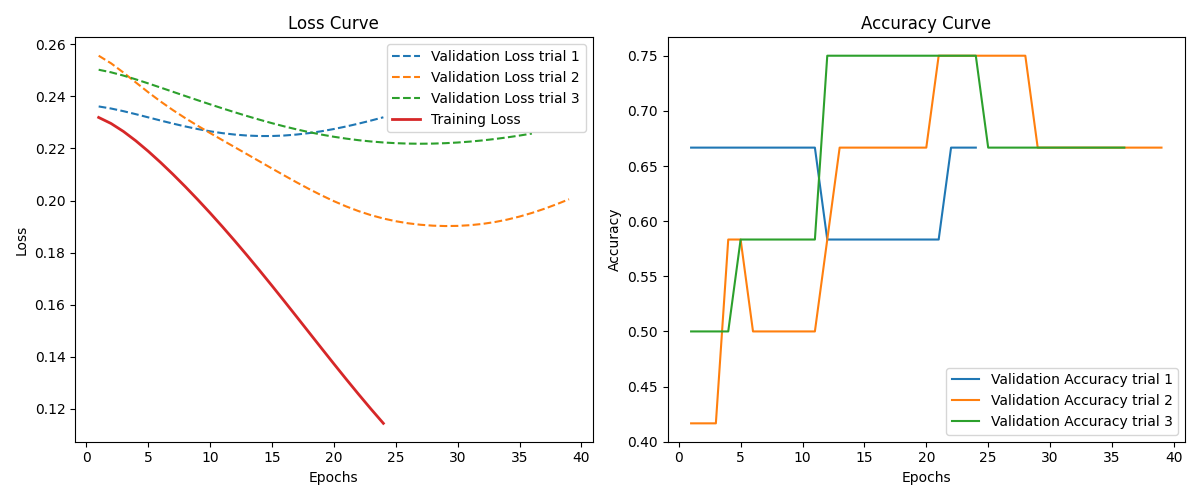
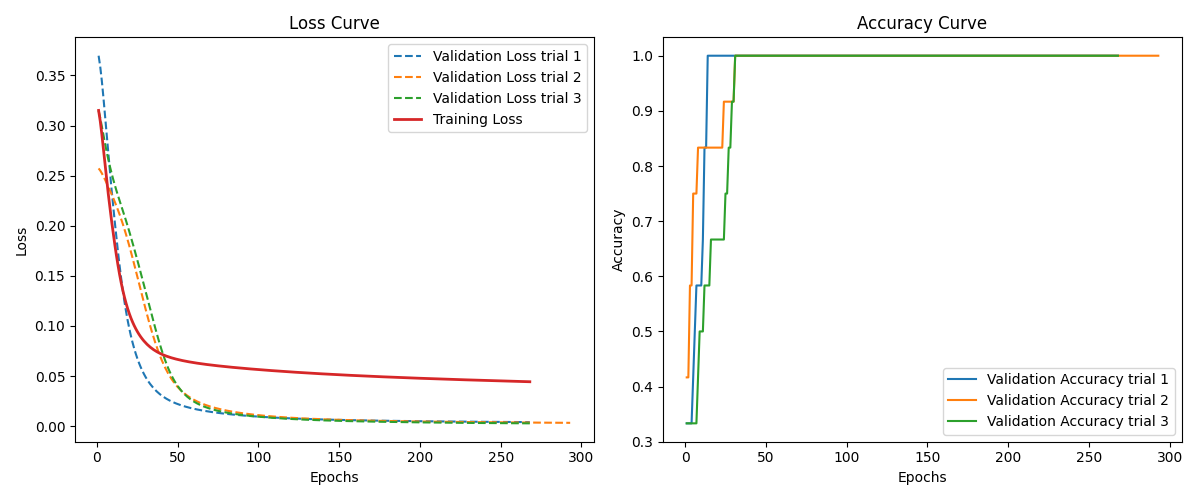
new monk_1

diff --git a/src/model_selection.py b/src/model_selection.py
@@ -16,189 +16,6 @@ import math
 script_dir = os.path.dirname(__file__)
 
 
-# def grid_search(x_train, y_train, x_val, y_val, batch_size = -1, configs_loss_val={}, configs_loss_train={},  configs=[], fold_index = 1):
-
-#     total_configs = len(configs)
-
-#     loss_train = []
-#     loss_val = []
-#     acc_val = []
-
-#     n_trials = 3
-
-#     n_in = np.size(x_train[1])
-
-#     for i, config in enumerate(configs):
-
-        
-#         print(f"\nProcessing configuration {i+1}/{total_configs} ---------- Fold {fold_index} ----------")
-#         for trial in range(n_trials):
-#             network = nn(n_in, config['n_unit_list'], config['act_list'])
-#             network.train(x_train, y_train, x_val, y_val, batch_size=batch_size, learning_rate=config['learning_rate'], lambd=config['lambd'], momentum=config['momentum'], patience=config['patience'], early_stopping = True)
-
-#             pred_val = network.forward(x_val)
-#             if pred_val.shape[1] == 1: pred_val = np.reshape(pred_val, pred_val.shape[0])
-#             pred_train = network.forward(x_train)
-#             if pred_train.shape[1] == 1: pred_train = np.reshape(pred_train, pred_train.shape[0])
-
-#             loss_val.append(MEE(y_val,pred_val))
-#             acc_val.append(BA(y_val,pred_val))
-#             loss_train.append(MEE(y_train,pred_train))
-
-
-#         avg_loss_val = sum(loss_val) / len(loss_val)
-#         avg_loss_train = sum(loss_train) / len(loss_train)
-#         loss_val = []
-#         loss_train = []
-#         acc_val = []
-
-#         # print(avg_loss)
-#         config_key = parse_config(config)
-
-#         config_key = str(config_key)
-
-#         if config_key not in configs_loss_val:
-#             configs_loss_val[config_key] = [avg_loss_val]
-#         else:
-#             configs_loss_val[config_key].append(avg_loss_val)
-
-#         if config_key not in configs_loss_train:
-#             configs_loss_train[config_key] = [avg_loss_train]
-#         else:
-#             configs_loss_train[config_key].append(avg_loss_train)
-
-#         # print(configs_loss[config_key])
-
-
-#     return configs_loss_val, configs_loss_train
-
-
-def hold_out_validation(x, y, n_out, val_size, split_type, grid, search_type, num_instances=10, regression=False):
-
-    if split_type == "stratified":
-        data = StratifiedDataSplitter(val_size, random_state=None)
-    else:
-        data = DataSplitter(val_size, random_state=None)
-
-    if search_type == "random":
-        configs = generate_random_search_configs(num_instances, n_out, regression, grid)
-
-    elif search_type == "fine":
-        configs = generate_fine_grid_search_configs(num_instances, n_out, regression, grid)
-
-    else:
-        print("Search type not mentioned performing random search")
-        configs = generate_random_search_configs(num_instances, n_out, regression, grid)
-        return
-
-    x_train, x_val, y_train, y_val = data.split(x, y)
-
-    configs_loss_val = {}
-    configs_loss_train = {}
-
-    print("------------------------------")
-    print("Grid search In progress: ")
-    print("------------------------------")
-
-    config_loss_val, config_loss_train = grid_search(
-                                    x_train, y_train, x_val, y_val, batch_size=-1,
-                                    configs_loss_val=configs_loss_val,
-                                    configs_loss_train = configs_loss_train,
-                                    configs=configs
-                                )
-    
-    print("------------------------------")
-    print(f"Completed")
-    print("------------------------------")
-
-    # Find the mean and standard deviation of the loss values for each configuration
-    for config_key, loss_list in config_loss_val.items():
-        std = np.std(loss_list)  # Calculate the standard deviation of the loss list
-        loss_val = np.mean(loss_list)  # Calculate the mean of the loss list
-
-        config_loss_val[config_key] = [loss_val, std]
-
-    for config_key, loss_list in config_loss_train.items():
-            loss_train = np.mean(loss_list)  # Calculate the mean of the loss list
-
-            config_loss_train[config_key] = [loss_train]
-
-    valid_models = {
-        key: value for key, value in config_loss_val.items() if not math.isnan(value[0])
-    }
-
-
-    sorted_models = sorted(valid_models.items(), key=lambda x: x[1][0])
-
-    split = [x_train, y_train, x_val, y_val]
-
-    return prepare_json(sorted_models, config_loss_train), split
-
-
-
-def k_fold(x, y, n_out, val_size, split_type, grid, search_type, num_instances=10, regression=False):
-
-    if split_type == "stratified":
-        data = StratifiedDataSplitter(val_size, random_state=None)
-    else:
-        data = DataSplitter(val_size, random_state=None)
-
-    if search_type == "random":
-        configs = generate_random_search_configs(num_instances, n_out, regression, grid)
-
-    elif search_type == "fine":
-        configs = generate_fine_grid_search_configs(num_instances, n_out, regression, grid)
-
-    else:
-        print("Search type not mentioned performing random search")
-        configs = generate_random_search_configs(num_instances, n_out, regression, grid)
-
-    k_loss_list_val = {}
-    k_loss_list_train = {}
-
-    fold_index = 1
-
-    k = math.ceil(1 / val_size)
-    if k < 2:
-        k = 2
-
-    for x_train, x_val, y_train, y_val in data.k_fold_split(x, y, k):
-        print("------------------------------")
-        print("Fold In progress: ", fold_index)
-        print("------------------------------")
-
-
-        k_loss_list_val, k_loss_list_train = grid_search(
-                                                x_train, y_train, x_val, y_val, batch_size=-1,
-                                                configs_loss_val=k_loss_list_val,configs_loss_train=k_loss_list_train,
-                                                configs=configs, fold_index=fold_index
-                                                )
-
-        print("------------------------------")
-        print(f"Completed")
-        print("------------------------------")
-
-        fold_index += 1
-
-
-    for config_key, loss_list in k_loss_list_val.items():
-        k_std = np.std(loss_list)  # Calculate the standard deviation of the loss list
-        k_loss_val = np.mean(loss_list)  # Calculate the mean of the loss list
-
-        k_loss_list_val[config_key] = [k_loss_val, k_std]
-
-    for config_key, loss_list in k_loss_list_train.items():
-            k_loss_train = np.mean(loss_list)  # Calculate the mean of the loss list
-
-            k_loss_list_train[config_key] = [k_loss_train]
-
-    valid_models = {
-        key: value for key, value in k_loss_list_val.items() if not math.isnan(value[0])
-    }
-
-    sorted_models = sorted(valid_models.items(), key=lambda x: x[1][0])
-
-    return prepare_json(sorted_models, k_loss_list_train)
 
 
 def grid_search(x, y, n_in, n_out, val_size, split_type, grid, search_type, num_instances=10, regression=False, model_selection = "hold_out"):

diff --git a/src/utils/hyperparameters_grid.py b/src/utils/hyperparameters_grid.py
@@ -153,15 +153,15 @@ random_grid_4 = {
 fine_grid_monk_1 = {
     "n_layers": (1, 1),  # Range of number of layers
     "n_unit": (6,6,1), # (min, max, num_steps)
-    "a_fun": [Act_Tanh()],
-    "learning_rate": (0.01, 0.03, 30),
-    # "learning_rate_decay_max": (0.01, 0.03, 1),
-    # "learning_rate_decay_epochs": (40, 60, 1),
-    # "learning_rate_decay_min": (0.008, 0.008, 1),
+    "a_fun": [Act_LeakyReLU()],
+    "learning_rate": (0.02, 0.025, 20),
+    "learning_rate_decay_max": (0.04, 0.05, 5),
+    "learning_rate_decay_epochs": (40, 60, 2),
+    "learning_rate_decay_min": (0.005, 0.02, 5),
     "lambd": (0, 0, 1),
     "lambd_type": [L1],
-    "momentum": (0.6, 0.75, 30),
-    'patience': [10],
+    "momentum": (0.6, 0.75, 10),
+    'patience': [5],
     'batch_size': [-1],
     'loss_function': [MSE()]
 }
@@ -186,13 +186,13 @@ fine_grid_monk_2 = {
 
 fine_grid_monk_3 = {
     "n_layers": (1, 1),  # Range of number of layers
-    "n_unit": (5,6,2), # (min, max, num_steps)
+    "n_unit": (5,5,1), # (min, max, num_steps)
     "a_fun": [Act_Tanh()],
-    "learning_rate": (0.0008, 0.002, 5),
+    "learning_rate": (0.0008, 0.002, 10),
     # "learning_rate_decay_max": (0.045, 0.05, 3),
     # "learning_rate_decay_epochs": (85, 85, 1),
     # "learning_rate_decay_min": (0.0006, 0.00075, 3),
-    "lambd": (0.00002, 0.00005, 5),
+    "lambd": (0.00002, 0.0005, 12),
     "lambd_type": [L2, L1],
     "momentum": (0.75, 0.75, 1),
     'patience': [10],

diff --git a/src/test.py b/src/test.py
@@ -6,6 +6,7 @@ sys.path.append(os.path.join(sys.path[0], '..'))
 
 from utils.data_utils import *
 from metrics import *
+from activation_function import *
 
 
 
@@ -16,14 +17,18 @@ script_dir = os.path.dirname(__file__)
 loss = MEE()
 loss_2 = MSE()
 
+act = Act_LeakyReLU()
 
-x = np.array([[4, 3], [3, 2], [3, 6]])
+x = np.array([[-1, 0], [3, 2], [3, 6]])
 y = np.array([[1, 2], [3, 4], [5, 6]])
 
-x = np.array([2, 3, 4])
-y = np.array([3, 1, 1])
+# x = np.array([0, 3, 4])
+# y = np.array([3, 1, 1])
 
 print(x.ndim)
+
+print(act.forward_fun(x))
+print(act.derivative_fun(x))
 
 # x = np.array([[2], [3], [4]])
 # y = np.array([[3], [1], [1]])
@@ -32,7 +37,7 @@ print(x.ndim)
 # print(np.shape(y))
 
 # print(loss.compute(x, y))
-print(loss.derivative(x, y))
+# print(loss.derivative(x, y))
 
 # differences = predictions - output
 # distances = np.sqrt(np.power(differences, 2)) + epsilon
@@ -47,7 +52,7 @@ print(loss.derivative(x, y))
 # print(np.sqrt(np.power(x - y, 2)))
 
 # print(loss_2.compute(x, y))
-print(loss_2.derivative(x, y))
+# print(loss_2.derivative(x, y))
 
 
 

diff --git a/test/monk_1/test_monk_1.py b/test/monk_1/test_monk_1.py
@@ -28,7 +28,7 @@ x_test = feature_one_hot_encoding(x_test, [3,3,2,3,4,2])
 n_in = np.size(x[1])
 n_out = 1
 
-init_config, train_config = load_best_model("config/monk_1/config_k_fold_monk_1.json", model_number=1, use_train_loss=True)
+init_config, train_config = load_best_model("config/monk_1/config_hold_monk_1.json", model_number=1, use_train_loss=False)
 
 print(init_config)
 print(train_config)

diff --git a/test/monk_1/hold_out_val_monk_1.py b/test/monk_1/hold_out_val_monk_1.py
@@ -26,13 +26,13 @@ n_in = np.size(x[1])
 n_out = 1
 
 
-val_size = 0.2
+val_size = 0.1
 
 split_type = "stratified"
-search_type = "random"   
+search_type = "fine"   
 
 # Define the grid
-grid = random_grid
+grid = fine_grid_monk_1
 
 config, metrics = grid_search(x, y, n_in, n_out, val_size, split_type, grid, search_type, num_instances=100, regression=False, model_selection="hold_out")
 

diff --git a/src/network.py b/src/network.py
@@ -45,7 +45,7 @@ class Network:
     def forw_then_back(self, data_in, y_true, learning_rate, lambd, momentum):
         y_out = self.forward(data_in)
         if y_out.shape[1] == 1: y_out = np.reshape(y_out, y_out.shape[0])
-        diff = 2 * (y_true - y_out)
+        diff =  (y_true - y_out)
         self.backward(diff, learning_rate, lambd, momentum)
 
     

diff --git a/src/utils/grid_search_configs.py b/src/utils/grid_search_configs.py
@@ -281,7 +281,6 @@ def generate_fine_grid_search_configs(num_instances, n_unit_out, regression, gri
                                                     'loss_function': loss_function
                                                 })
 
-    print(grid_configs)
     return grid_configs
 
 def parse_config(config):
